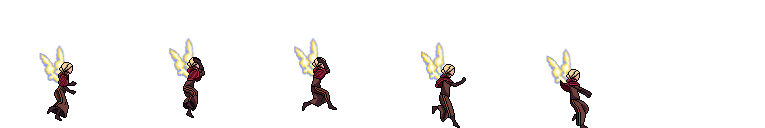
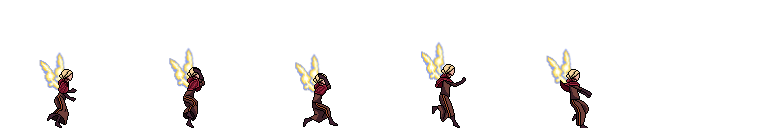
Added the rest of the boss animations

Changed region(s): [[0.3608, 0.3125, 0.451, 1.0], [0.0301, 0.375, 0.1203, 1.0], [0.2105, 0.3125, 0.2706, 1.0]]

diff --git a/Final Project/Boss.cs b/Final Project/Boss.cs
@@ -644,15 +644,113 @@ namespace Final_Project
             }
             else if (_state == BossState.HurtFlying) //Taking damage while flying
             {
+                if (_frame == 0)
+                {
+                    _spriteFrame = new Rectangle(121, 43, 119, 85);
+                }
+                else if ( _frame == 1)
+                {
+                    _spriteFrame = new Rectangle(249, 43, 119, 85);
+                }
+                else if (_frame == 2)
+                {
+                    _spriteFrame = new Rectangle(378, 43, 119, 85);
+                }
 
+                if (_frameTime >= 0.07)
+                {
+                    if (_frame >= 2)
+                    {
+                        _frame = 0;
+                    }
+                    else
+                    {
+                        _frame++;
+                    }
+                    _frameTime = 0;
+                }
             }
             else if (_state == BossState.HorizontalBeam) //Horizontal beam
             {
+                if ( _frame == 0)
+                {
+                    _spriteFrame = new Rectangle(34, 43, 119, 85);
+                }
+                else if (_frame == 1)
+                {
+                    _spriteFrame = new Rectangle(162, 43, 119, 85);
+                }
+                else if (_frame == 2)
+                {
+                    _spriteFrame = new Rectangle(291, 43, 119, 85);
+                }
+                else if (_frame == 3)
+                {
+                    _spriteFrame = new Rectangle(418, 43, 119, 85);
+                }
+                else if (_frame == 4)
+                {
+                    _spriteFrame = new Rectangle(547, 43, 119, 85);
+                }
+                else if ( _frame == 5)
+                {
+                    _spriteFrame = new Rectangle(675, 43, 119, 85);
+                }
+                else if (_frame == 6)
+                {
+                    _spriteFrame = new Rectangle(803, 43, 119, 85);
+                }
 
+                if (_frameTime >= 0.1)
+                {
+                    if (_frame >= 6)
+                    {
+                        _frame = 0;
+                    }
+                    else
+                    {
+                        _frame++;
+                    }
+
+                    _frameTime = 0;
+                }
             }
             else if (_state == BossState.VerticalBeam) //Vertical beam
             {
+                if (_frame == 0)
+                {
+                    _spriteFrame = new Rectangle(39, 43, 119, 85);
+                }
+                else if (_frame == 1)
+                {
+                    _spriteFrame = new Rectangle(169, 43, 119, 85);
+                }
+                else if (_frame == 2)
+                {
+                    _spriteFrame = new Rectangle(293, 43, 119, 85);
+                }
+                else if (_frame == 3)
+                {
+                    _spriteFrame = new Rectangle(420, 43, 119, 85);
+                }
+                else if (_frame == 4)
+                {
+                    _spriteFrame = new Rectangle(546, 43, 119, 85);
+                }
 
+                if (_frameTime >= 0.1)
+                {
+                    if (_frame >= 4)
+                    {
+                        _frame = 0;
+                    }
+                    else
+                    {
+                        _frame++;
+                    }
+
+                    _frameTime = 0;
+                }
             }
         }
 
